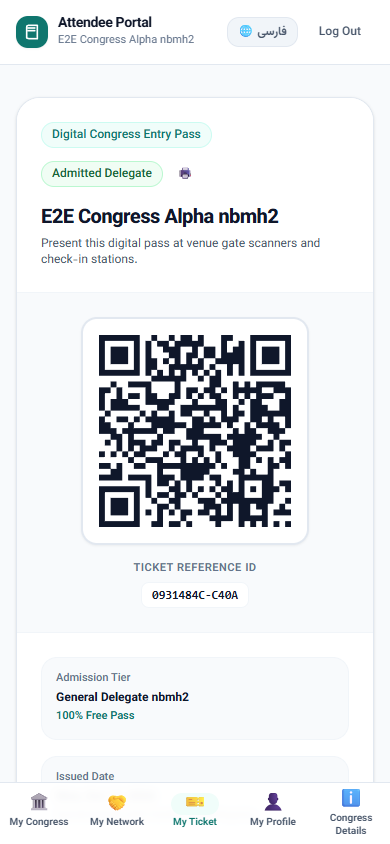
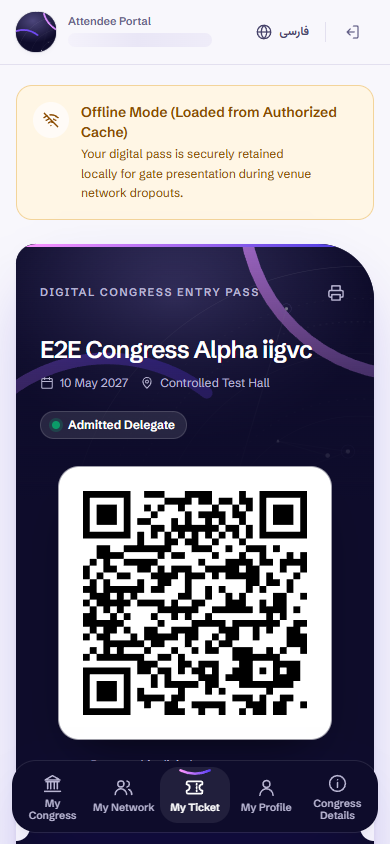
docs(design): AIteb signature redesign result, before/after screenshots, refreshed real-API journey evidence

diff --git a/docs/design/AITEB_SIGNATURE_REDESIGN_RESULT.md b/docs/design/AITEB_SIGNATURE_REDESIGN_RESULT.md
@@ -1,0 +1,161 @@
+# AIteb Signature Redesign — Result
+
+Branch `integration/task-05h`, based on `8807183`. This change is frontend only: no backend, schema, auth or API-contract changes.
+
+## 1. AIteb brand sources inspected
+- https://aiteb.ir/ was inspected in a real browser: rendered screenshots, computed styles, the `:root` custom properties and the Elementor/Astra stylesheets. The page is `lang="fa-IR"` and `dir="rtl"`.
+- Official logo files on the site were downloaded and are reused unmodified:
+  - `logo-aiteb-english-300-footer-min.png` (300×95 wordmark lockup), now `web/public/brand/aiteb-logo.png`.
+  - The full-size site icon `cropped-logo-aiteb-english-300-footer-min.png` (512×512 mark), now `web/public/brand/aiteb-mark.png`. The favicon, apple-touch icon and PWA icons are generated from it.
+- What the site shows about the brand:
+  - The mark is two crossing curved strokes, orchid to violet, followed by the wordmark "AI Teb".
+  - Flat illustrations in indigo and pink, lavender section bands and an indigo partner band.
+  - The heading font is Shabnam FD; the English footer logo uses Montserrat 700.
+  - The legal entity is "طبیبان روشناندیش هوشمند". No legal text was invented.
+
+## 2. Extracted brand colours
+| Token | HEX | Evidence |
+|---|---|---|
+| AIteb Indigo | `#2000CD` | Wordmark pixels (dominant colour in the logo PNG); most-used accent in the site's computed colours |
+| Mark violet | `#3D35DF` | Logo-mark gradient, cool end (pixel sampling) |
+| Mark orchid | `#FF97FF` | Logo-mark gradient, warm end (pixel sampling) |
+| Headline magenta | `#D6018D` | Site `linear-gradient(90deg, #D6018D, #283BEA)` |
+| Headline blue | `#283BEA` | Same gradient, end |
+| Lavender surface | `#F2F0FE` | Section background |
+| Slate heading | `#486284` | Section `h2` colour |
+| Graphite | `#191919` / `#404040` | Body text |
+
+Not adopted: `#fb2056` / `#da1c4b` appear only as Astra theme globals and are not used visibly on the site.
+
+Proposed extensions (not official, derived from the colours above):
+- Ink `#0E0C2B` (scale `ink-50…950`) for dark surfaces.
+- A brand scale `brand-50…900` built around `#2000CD`.
+- Semantic colours: success `#04704F`, warning `#8A4B00`, danger `#B0103F`, info `#1F3BC4`. Each meets AA on white.
+- Five per-congress accents derived from the brand colours (see `lib/eventAccent.ts`).
+
+## 3. Typography
+All fonts are self-hosted through `@fontsource`, licensed OFL-1.1 and precached for the offline PWA. Google Fonts was removed.
+- **Vazirmatn** (variable) for Persian. It comes from the same type family as AIteb's Shabnam, with a full weight range. It becomes the primary font automatically under `dir="rtl"`.
+- **Schibsted Grotesk** (variable) for Latin display and UI: an editorial grotesk with tight display tracking.
+- **IBM Plex Mono** for ticket IDs, codes, slugs and times.
+
+Text-handling rules:
+- Letter-spacing is reset globally in RTL so Persian letters stay joined.
+- `.ltr-isolate` keeps emails, URLs and IDs in the right direction inside Persian text.
+- `.tabular` gives tabular numerals for figures.
+
+## 4. Design direction — "Crossing Arcs" (پیوند)
+The AIteb mark is two arcs crossing: medicine meets technology, and people meet at a congress. The system built from it:
+- **Arc corner.** A quarter-arc corner (`shape-arc`) as the signature silhouette. It uses logical properties, so it mirrors in RTL.
+- **Fine lines.** Architectural hairlines and a fine grid (`rule-arc`, `bg-meridian`).
+- **Ink surfaces** for heroes, docks, rails and the scanner.
+- **Restrained gradient.** The brand gradient appears only in thin strokes and small markers.
+- **Editorial typography** with numbered section indexes (`01 / 02 …`).
+- **Per-congress identity** from a deterministic, generative `CongressSignature` artwork. The API has no event imagery, so no stock photos are used.
+
+## 5. External references and what was taken from them
+- **Stripe Sessions:** oversized light display type, date and venue set as metadata columns, and one large brand artwork. Used in the public hero.
+- **Figma Config:** a bold field with a black panel of ruled rows. Used for the platform-landing environment list and the scanner status rail.
+- **Luma:** calm event lists with metadata above the title, and gradient text used on only one phrase. Used for the exhibitor index and booth lists.
+- Earlier research screenshots in `docs/design/evidence/` (Web Summit, Slush, Swapcard, RSNA) were used for exhibitor discovery and schedule density.
+- No layout or artwork was copied.
+
+## 6. Shared tokens and components
+- **Tokens:** `web/src/index.css`, covering colours, ink and brand scales, shadows, radii, motion keyframes, and the form, skeleton, eyebrow, reveal and press utilities. Reduced motion is honoured globally.
+- **Brand components:**
+  - `components/brand/Aiteb.tsx`: `AitebLogo`, `AitebAttribution` (fa/en, links to aiteb.ir) and `ArcMotif`.
+  - `components/brand/CongressSignature.tsx`.
+  - `lib/eventAccent.ts`.
+- **Icons:** `components/ui/Icon.tsx`, 70+ line icons drawn for this platform. Directional icons mirror in RTL. Emoji used as icons were removed from every portal.
+- **Restyled primitives:**
+  - `Button`: new `ink`, `light` and `danger` variants, plus an `xl` size.
+  - `Badge`: `ink` and `accent` variants, plus a `dot` option.
+  - `Card`: tones and the arc shape.
+  - `Dialog`: a bottom sheet on mobile, an arc panel on desktop.
+  - `ConfirmDialog`, `StatusPanel`, the skeleton `LoadingBlock` and `SkipLink`.
+- **Screenshot tooling:** `scripts/design/capture-screens.mjs` captures the same set of screens before and after. It is read-only against the demo.
+
+## 7. Portals redesigned
+| Environment | Highlights |
+|---|---|
+| Public (`/e/:slug`, booths, `/`) | Ink hero with animated congress artwork; dates, schedule, venue and pass count in numbered metadata columns; status derived from real dates; perforated pass stubs with capacity meters (amber when ≤25% left, hatched when closed); exhibitor index; booth placard with a large stand code; platform landing with the official logo; ink footer with attribution. Persian congresses render fully RTL and dates follow the congress's language. |
+| Attendee (5 destinations) | Floating ink dock on phones with a gradient arc over the active item, two-row header on desktop. My Congress shows a cover with live/countdown state. My Ticket is an ink credential with perforation and stub: the QR value is unchanged, black on a white plate with a quiet zone, and never smaller than before. Printing now prints the pass (it printed blank before). Network contact cards; profile privacy switch; split sign-in. |
+| Organizer | Ink sidebar (from 1024 px) carrying the event context and numbered sections; scrollable tabs on phones. Events listed with their signature artwork. Tables use tabular numerals and stack into rows on small screens. Analytics uses only real numbers: KPI strip, gate bars in the brand gradient, hourly columns, polling indicator and CSV. |
+| Reception | Command-bar search with key hints (`/`, Enter, Esc). Panes adapt to width: stacked on phones, two panes on tablets, three columns on wide screens. Results carry high-contrast status chips; the review panel has a printable pass. Confirmations are instant, with no entrance animation. |
+| Exhibitor | Ink booth header with placard and lead tally. Capture dock on phones, sticky capture panel on desktop. HOT/WARM/COLD toggle group that works from the keyboard. Lead cards, filter chips with counts, and an export spinner. |
+| Scanner | Dark instrument: gate identity, a status rail (link / manifest / queue), and a reticle with a sweep line. Results take over the scan area in full colour with icon and words: admitted, offline-provisional (amber stripes), already admitted, rejected. They appear in 110 ms and never block the next scan. Precise scan log. Attribution appears only on setup and settings screens. |
+
+## 8. Screenshots
+All are real renders of this build against the local demo (synthetic data).
+- **Before:** `docs/design/aiteb-redesign/before/` — 45 screens captured before any change.
+- **After:** `docs/design/aiteb-redesign/after/` — the same 45 screens, fa and en, from 390 to 1920 px.
+- **Interactive states:** `docs/design/aiteb-redesign/after/flows/`.
+  - Read-only, never submitted: the registration dialog (en desktop and phone, fa phone), reception review (tablet, desktop, fa phone), and exhibitor qualification and capture dialogs (en and fa).
+  - Two real demo gate scans: admitted (Alice at Main Gate, multi-entry) and rejected (Cyrus at Workshop, `TIER_NOT_ALLOWED`).
+  - Offline-provisional admission: the browser context was offline and was discarded, so nothing synced.
+- **Before/after sheets:** `docs/design/aiteb-redesign/compare/` (12 pairs).
+
+| | |
+|---|---|
+| ![](aiteb-redesign/compare/public-event-en-desktop.webp) | ![](aiteb-redesign/compare/attendee-ticket-en-phone.webp) |
+| ![](aiteb-redesign/compare/organizer-analytics-en-desktop.webp) | ![](aiteb-redesign/compare/scanner-ready-phone.webp) |
+
+## 9. Tests and exit codes (final tree)
+| Check | Result |
+|---|---|
+| `npx tsc -b` | exit 0 |
+| `npx oxlint src` | 0 errors; the remaining warnings are hook-dependency / set-state-in-effect in logic that was already there |
+| `npm test` (unit) | 55 passed, 0 failed |
+| `npm run build` | exit 0; precache 56 entries |
+| Playwright, full suite (production preview on 127.0.0.1:4190, msedge, `--retries=0`) | **165 passed, 1 skipped** (`scanner-real-api.spec.ts` needs an isolated backend). All other specs intercept the API with synthetic data. |
+| `scripts/integration/congress-e2e.mjs --skip-build` (real FastAPI + PostgreSQL in disposable `congress-e2e-*` containers, Postgres unpublished, effective database verified) | **45/45 checks passed** and `scanner-real-api.spec.ts` 1 passed, exit 0. This covers scanner offline queue and sync, idempotent replay, revocation, reception, exhibitor CSV and tenant isolation. |
+| `scripts\check.bat` (backend mypy + pytest, web unit + typecheck + build, Dart tests + analyze) | ALL CHECKS PASSED, exit 0 |
+
+The persistent demo database was not reset; port 4174 (another worktree) was not touched.
+
+## 10. Performance and accessibility
+- **Layout shift (CLS).** The public congress and booth pages scored 0.24–0.34 because the footer jumped when content arrived. The loading skeletons now fill the viewport; CLS is ≤ 0.04 on every page measured.
+- **Load time (LCP)**, production build:
+
+  | Page | Desktop | Throttled mobile (1.6 Mbps, 150 ms, 4× CPU) |
+  |---|---|---|
+  | Public congress | 0.47 s | 3.7 s |
+  | Persian congress | 0.47 s | 4.6 s |
+  | Reception | 0.65 s | 2.9 s |
+
+- **Bundle.** The entry bundle went from 950 KB to 426 KB raw. Portals are code-split and public pages ship in the entry bundle; every chunk is precached for the offline scanner.
+- **Accessibility:**
+  - AA contrast for the palette and all event accents (checked numerically).
+  - Visible focus rings, touch targets of at least 44 px, and safe-area padding on fixed bars.
+  - Zooming is no longer blocked (`user-scalable=no` was removed).
+  - Reduced motion disables the arc draw, scroll reveals and the scanner sweep.
+  - Colour is never the only status signal.
+- **No horizontal overflow** at 320 px on any captured route, in fa and en.
+
+## 11. Known limitations
+- **Logo resolution.** AIteb publishes the wordmark only as a 300×95 PNG, which is sharp up to about 47 px tall at 2× density. No vector logo was found, and none was redrawn.
+- **Fonts.** Shabnam (AIteb's site font) is not used; Vazirmatn is used instead, as explained in §3.
+- **Hardware not verified.** The camera and USB/HID scanner paths were not tested on real hardware; manual entry was the simulated path.
+- **Persian helper lines on the scanner.** A few scanner labels keep an English helper line under the Persian text, because existing tests assert the English command names.
+- **Front Desk rail title.** On the organizer Front Desk route opened directly, the rail shows "…" until the desk page reports its event (the old header behaved the same).
+- **Mobile LCP.** On throttled mobile, LCP stays above 2.5 s, mainly from React startup plus two API round trips.
+
+## 12. Commits
+| SHA | Change |
+|---|---|
+| `133ffa6c0b680d2d51481da6674ff8d0e4b3ce40` | design foundation |
+| `f88e933daddb5b7895295fd0000c342ae51e366a` | public experience |
+| `d06e9f8c9bb1d4be3fb192a2c793c9c49bdf9845` | attendee |
+| `4019180aa086884afd510ae03eef648d37035e34` | organizer |
+| `0cf2defb96b4d2313579a071c66cd852e5dbd1a4` | reception |
+| `a24633d9a6cd02611c38eadb858dfa4528df3987` | exhibitor |
+| `905c48c1f570ffe99b8b2add76a577ab27d42079` | scanner |
+| `28bdbbbfadf5c777e1e563eb316ddc8185e7829b` | route splitting |
+
+This report, the screenshots and the refreshed integration evidence are in the commit that follows.
+
+## 13. Reviewing the UI
+1. `powershell -NoProfile -ExecutionPolicy Bypass -File scripts\demo\status.ps1`. If anything is stopped, run `scripts\demo\start.ps1`; data is preserved.
+2. Open http://127.0.0.1:5190/e/ai-health-2026 (English) and /e/cardio-forum-1405 (Persian). Accounts and URLs for every portal are in `.demo/DEMO-GUIDE.md`.
+3. Use the header language switch (فارسی / English) and the devtools device toolbar (390 px) for phone views.
+4. To regenerate the screen set: `node scripts/design/capture-screens.mjs <out-dir> [--only=<prefix>]`.
